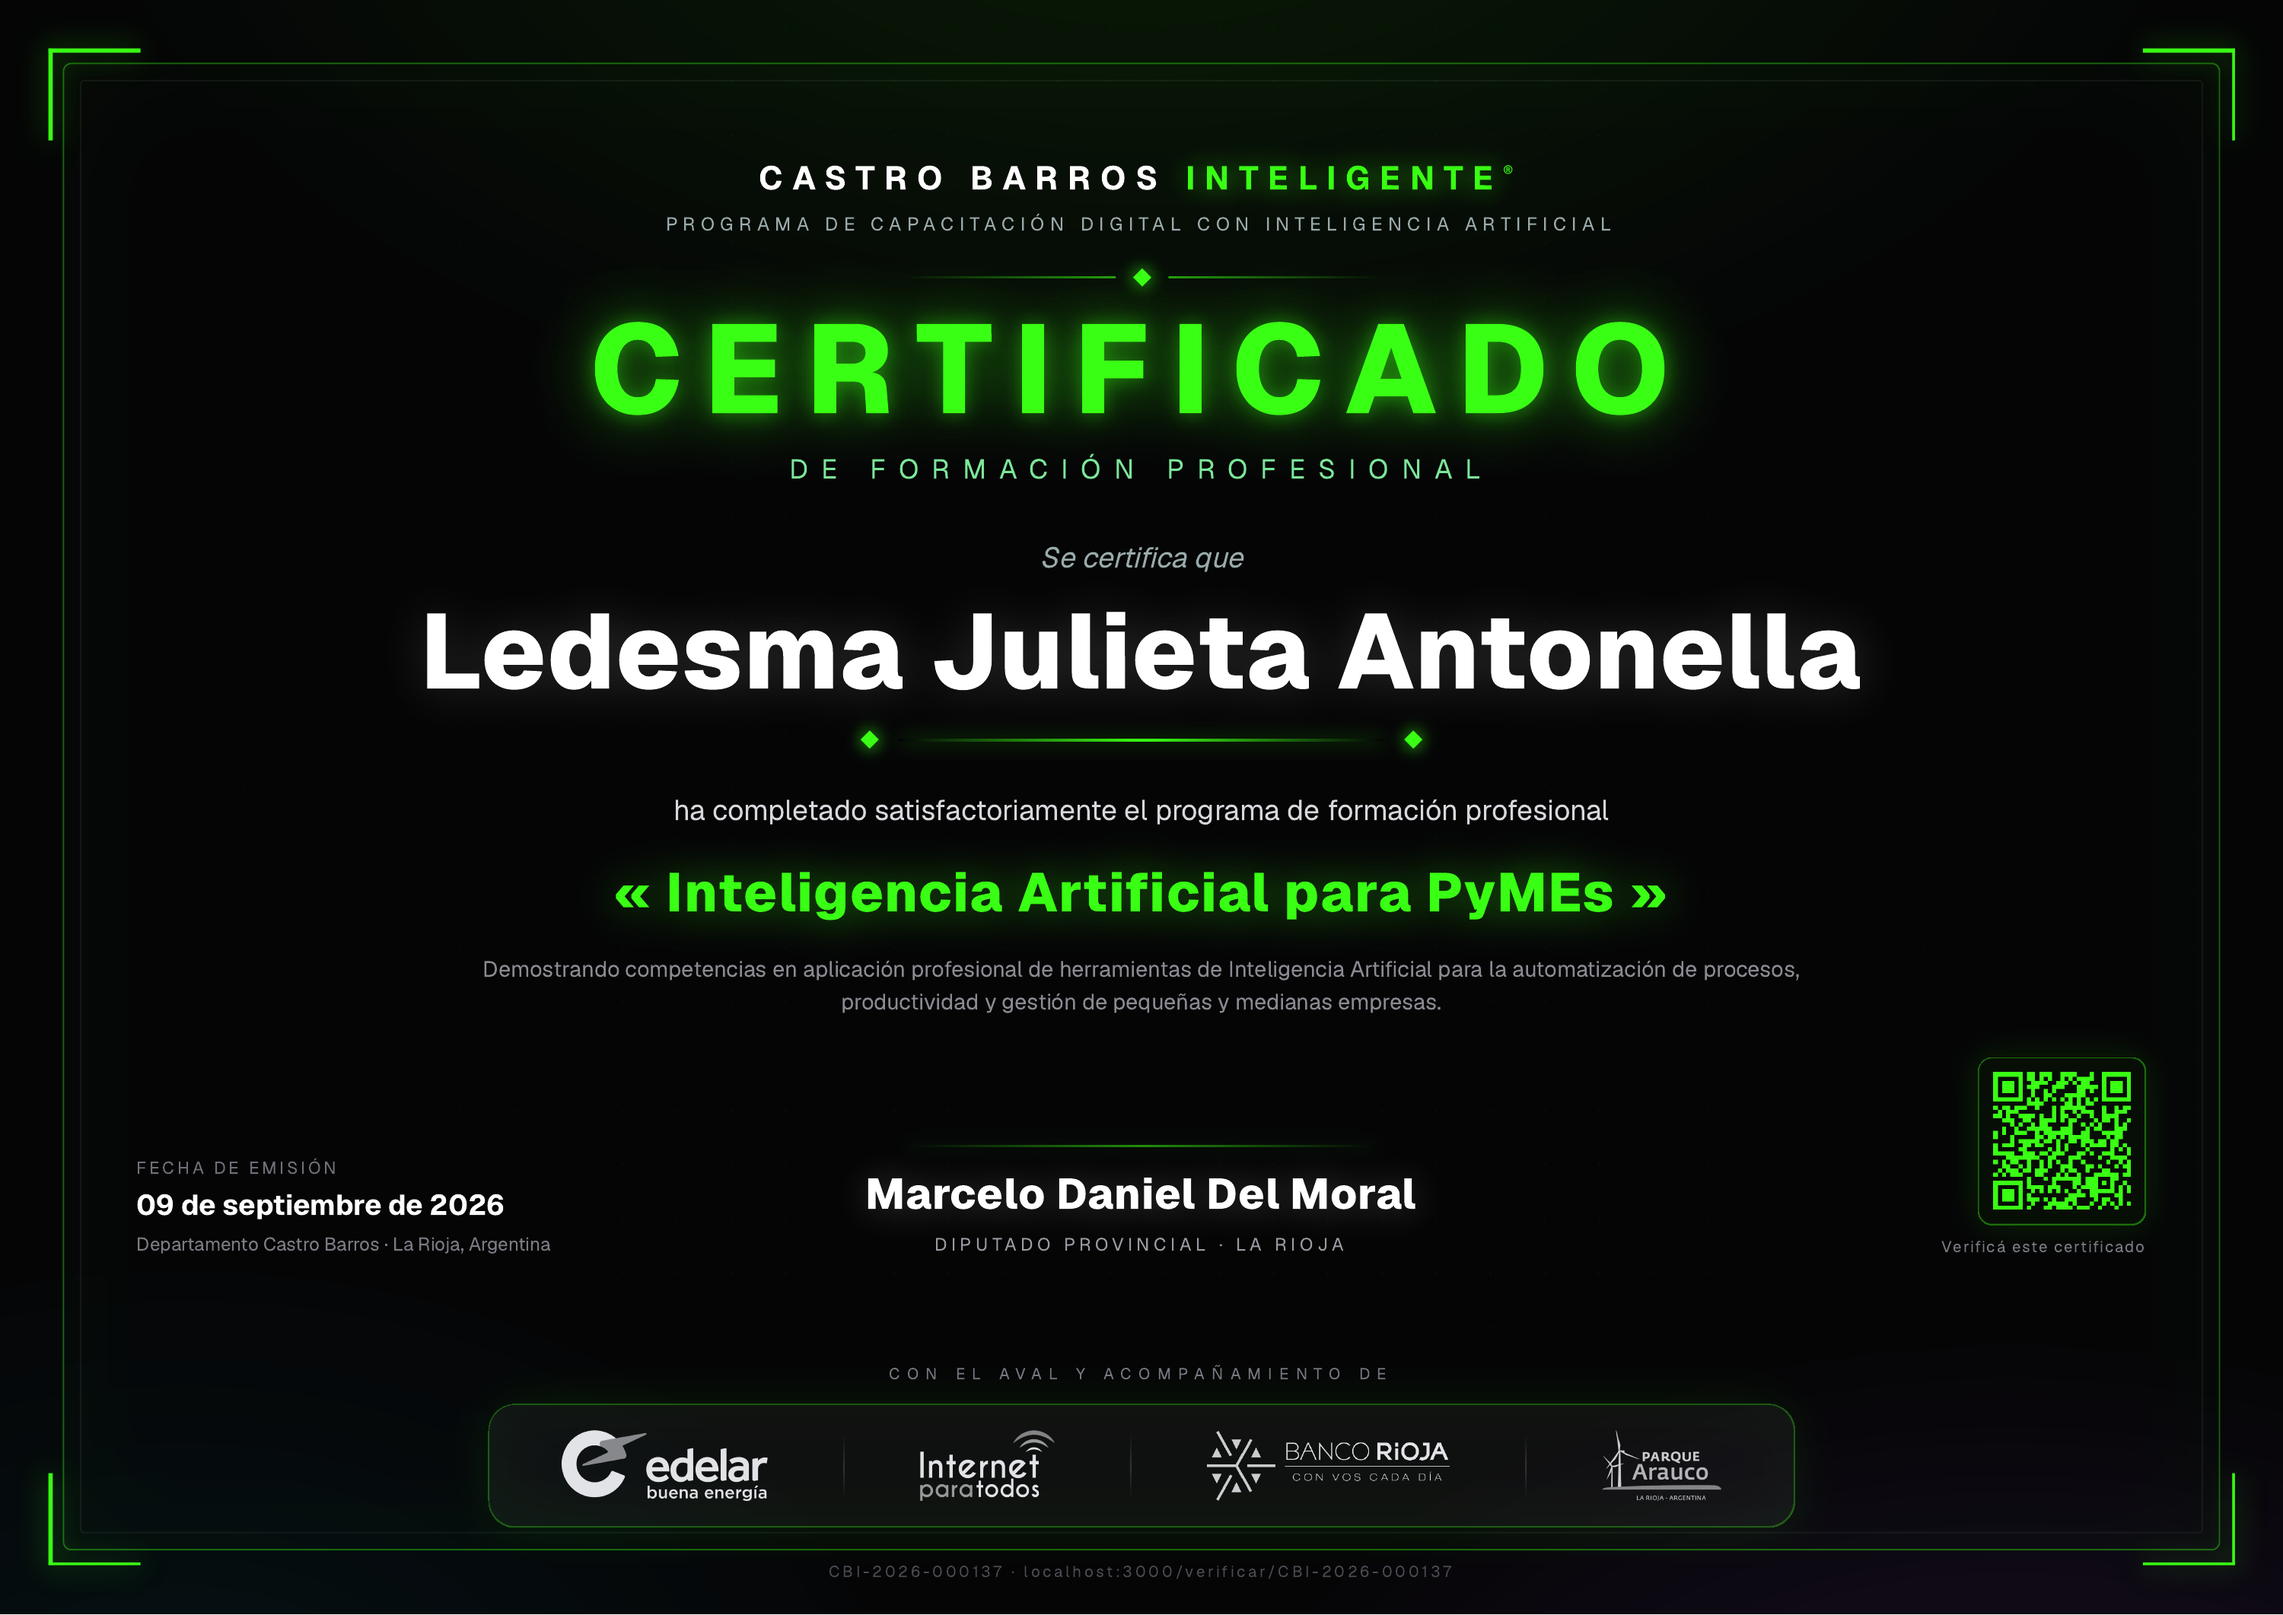
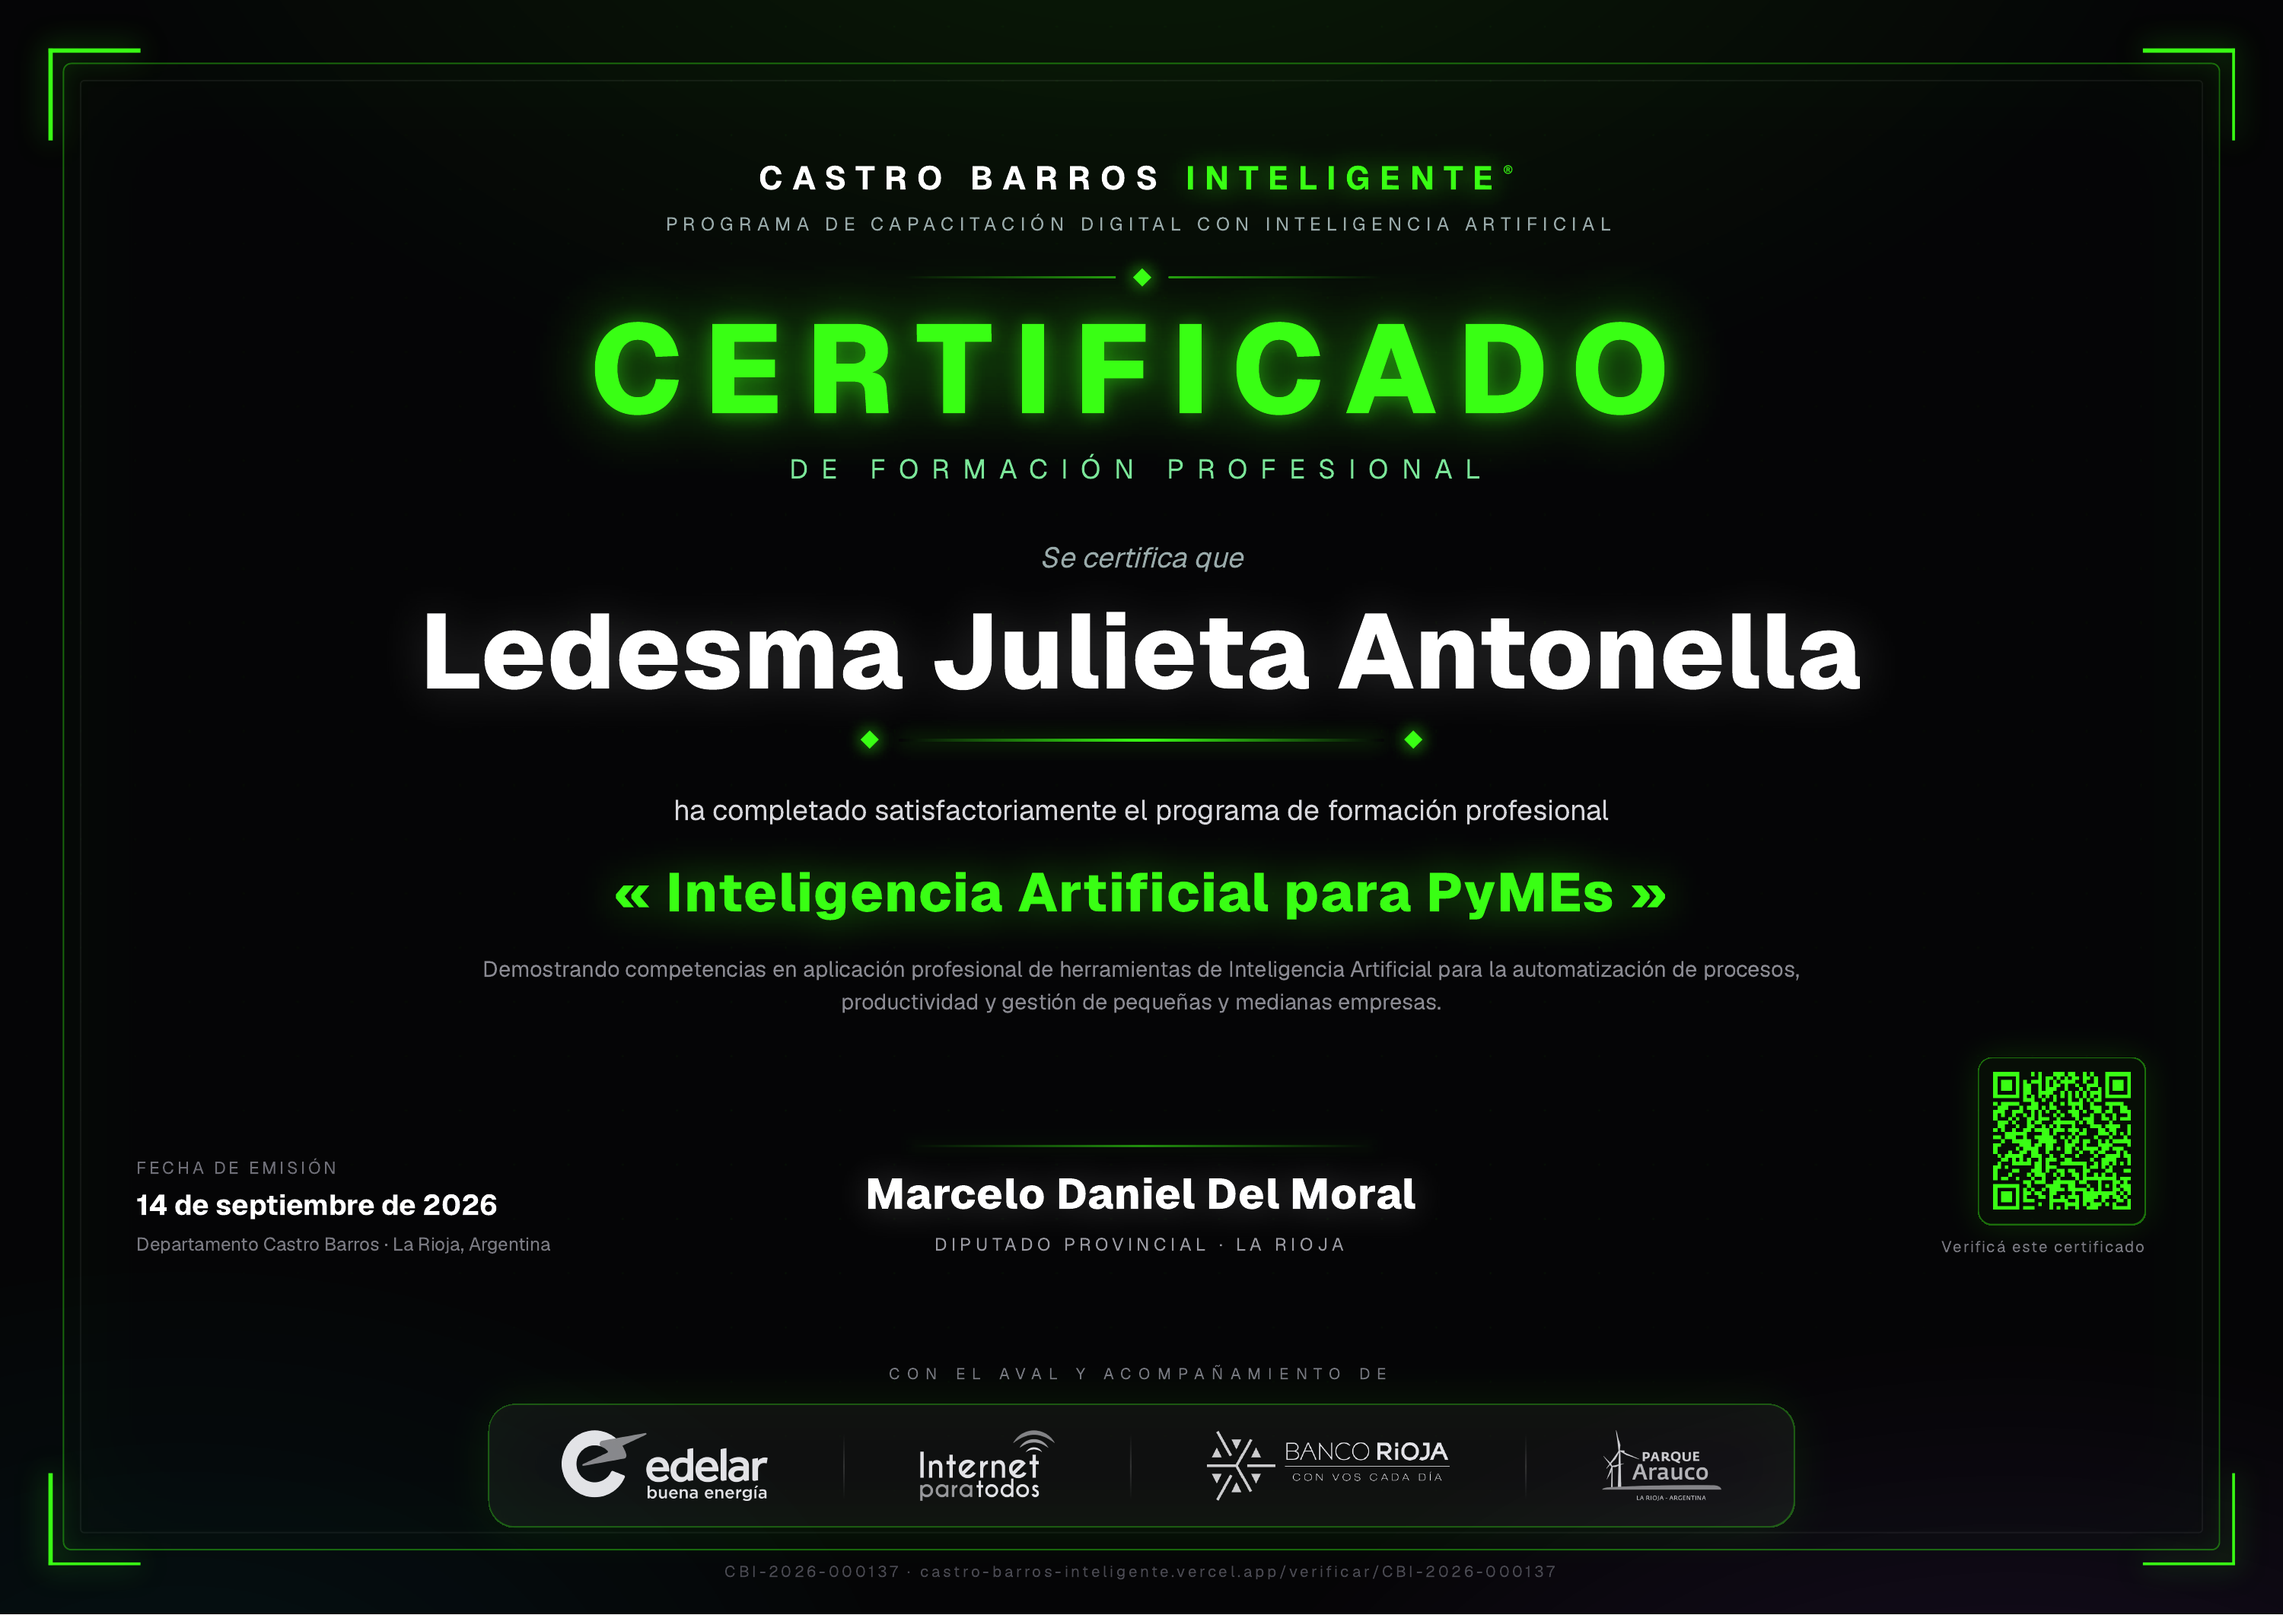
Certificado: QR/URL apuntan a produccion (ya no a localhost)
El QR usaba request.nextUrl.origin, que en local queda en localhost:3000 y quedo horneado en la imagen de ejemplo. Nuevo helper getPublicBaseUrl prioriza NEXT_PUBLIC_APP_URL / dominio de produccion de Vercel > origin. Se regenera public/certificado-ejemplo.png con la URL de produccion y un codigo demo que resuelve en /verificar.

Claude-Session: https://claude.ai/code/session_01M5FPiu5uSiN2GTt3oqZfLf

Changed region(s): [[0.062, 0.715, 0.217, 0.7772], [0.868, 0.6528, 0.93, 0.7461]]

diff --git a/src/lib/site-url.ts b/src/lib/site-url.ts
@@ -1,0 +1,17 @@
+import type { NextRequest } from "next/server";
+
+/**
+ * URL pública canónica para links y QRs (certificados, verificación).
+ * Prioriza el dominio de producción para que un QR nunca quede apuntando a
+ * localhost o a un preview: NEXT_PUBLIC_APP_URL > dominio de producción de
+ * Vercel > origin de la request (fallback local).
+ */
+export function getPublicBaseUrl(request: NextRequest): string {
+  if (process.env.NEXT_PUBLIC_APP_URL) {
+    return process.env.NEXT_PUBLIC_APP_URL.replace(/\/$/, "");
+  }
+  if (process.env.VERCEL_PROJECT_PRODUCTION_URL) {
+    return `https://${process.env.VERCEL_PROJECT_PRODUCTION_URL}`;
+  }
+  return request.nextUrl.origin;
+}

diff --git a/src/app/api/certificates/preview/route.ts b/src/app/api/certificates/preview/route.ts
@@ -1,6 +1,7 @@
 import { NextRequest, NextResponse } from "next/server";
 import { renderCertificatePDF } from "@/lib/certificate-render";
 import { COURSES, COURSE_COMPETENCIES } from "@/lib/constants";
+import { getPublicBaseUrl } from "@/lib/site-url";
 
 export const runtime = "nodejs";
 export const maxDuration = 60;
@@ -21,7 +22,7 @@ export async function GET(request: NextRequest) {
 
   const certificateCode = searchParams.get("code") || "CERT-CB-2026-00142";
   const verificationHash = certificateCode;
-  const baseUrl = request.nextUrl.origin;
+  const baseUrl = getPublicBaseUrl(request);
   const verificationUrl = `${baseUrl}/verificar/${verificationHash}`;
 
   try {

diff --git a/src/app/api/certificates/generate/route.ts b/src/app/api/certificates/generate/route.ts
@@ -3,6 +3,7 @@ import { NextRequest, NextResponse } from "next/server";
 import crypto from "crypto";
 import { renderCertificatePDF } from "@/lib/certificate-render";
 import { COURSE_COMPETENCIES } from "@/lib/constants";
+import { getPublicBaseUrl } from "@/lib/site-url";
 
 export const runtime = "nodejs";
 export const maxDuration = 60;
@@ -121,7 +122,7 @@ export async function POST(request: NextRequest) {
     .digest("hex");
 
   const courseSlug = course?.slug || "";
-  const baseUrl = request.nextUrl.origin;
+  const baseUrl = getPublicBaseUrl(request);
   const verificationUrl = `${baseUrl}/verificar/${verificationHash}`;
 
   // Generate the PDF
